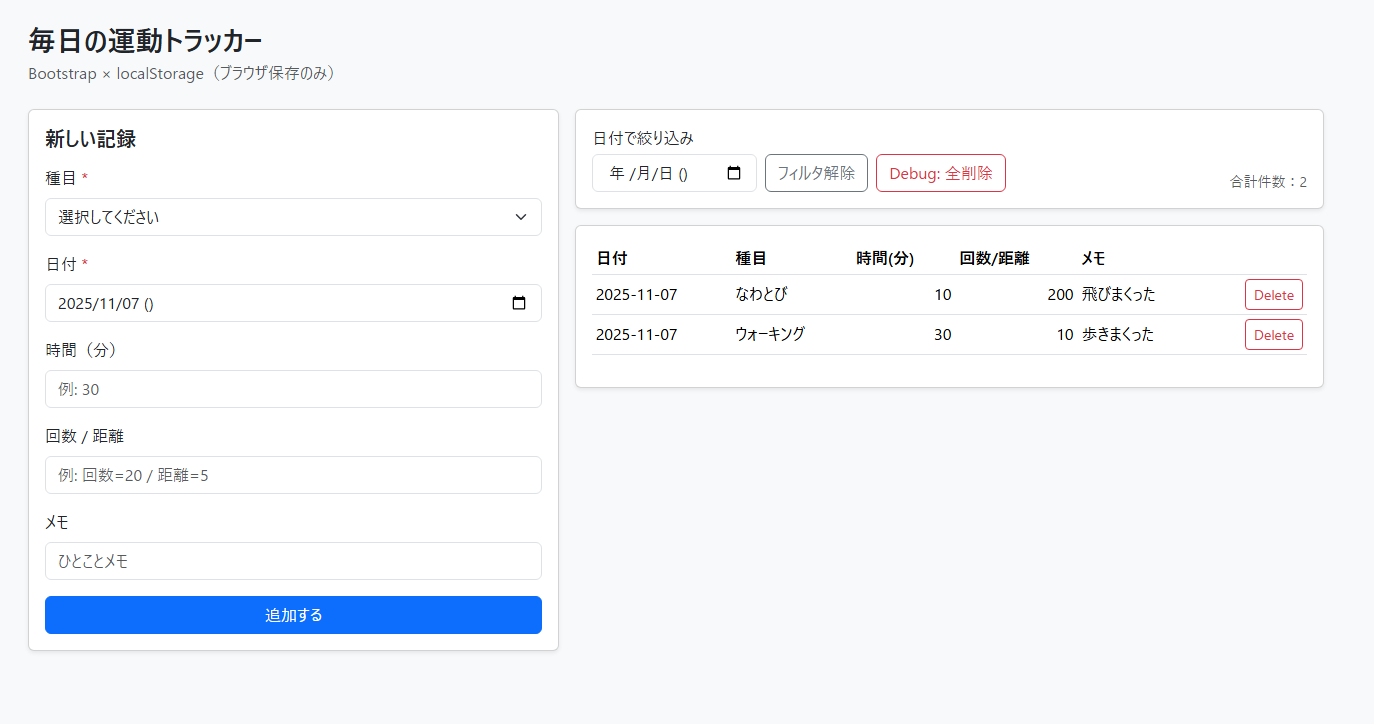
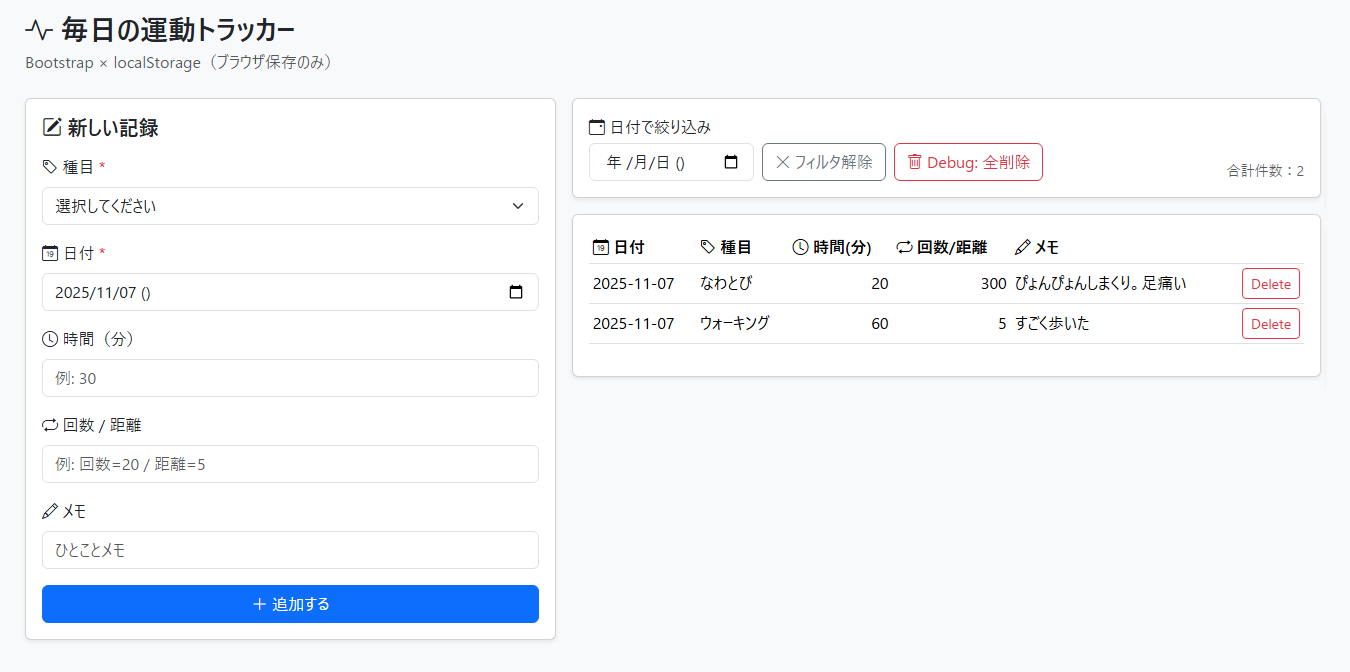
feat: アイコンを追加してUIを改善
- タイトルにアイコンを追加しました。
- 新しい記録セクションにアイコンを追加しました。
- 各ラベルにアイコンを追加しました。
- ボタンにアイコンを追加しました。
- テーブルのヘッダーにアイコンを追加しました。

diff --git a/index.bootstrap.html b/index.bootstrap.html
@@ -6,6 +6,7 @@
     <meta name="viewport" content="width=device-width, initial-scale=1" />
     <title>毎日の運動トラッカー</title>
     <link href="https://cdn.jsdelivr.net/npm/bootstrap@5.3.3/dist/css/bootstrap.min.css" rel="stylesheet">
+    <link rel="stylesheet" href="https://cdn.jsdelivr.net/npm/bootstrap-icons@1.11.3/font/bootstrap-icons.min.css">
     <style>
       body {
         background: #f8f9fa;
@@ -25,17 +26,17 @@
 
   <body>
     <div class="container py-4">
-      <h1 class="h3 mb-1">毎日の運動トラッカー</h1>
+      <h1 class="h3 mb-1"><i class="bi bi-activity"></i> 毎日の運動トラッカー</h1>
       <p class="text-muted mb-4">Bootstrap × localStorage（ブラウザ保存のみ）</p>
 
       <div class="row g-3">
         <div class="col-12 col-lg-5">
           <div class="card shadow-sm">
             <div class="card-body">
-              <h2 class="h5 mb-3">新しい記録</h2>
+              <h2 class="h5 mb-3"><i class="bi bi-pencil-square"></i> 新しい記録</h2>
               <form id="entry-form" class="vstack gap-3">
                 <div>
-                  <label class="form-label required">種目</label>
+                  <label class="form-label required"><i class="bi bi-tag"></i> 種目</label>
                   <select id="type" class="form-select" required>
                     <option value="">選択してください</option>
                     <option>ウォーキング</option>
@@ -46,22 +47,22 @@
                   </select>
                 </div>
                 <div>
-                  <label class="form-label required">日付</label>
+                  <label class="form-label required"><i class="bi bi-calendar-date"></i> 日付</label>
                   <input id="date" type="date" class="form-control" required>
                 </div>
                 <div>
-                  <label class="form-label">時間（分）</label>
+                  <label class="form-label"><i class="bi bi-clock"></i> 時間（分）</label>
                   <input id="minutes" type="number" class="form-control" min="0" placeholder="例: 30">
                 </div>
                 <div>
-                  <label class="form-label">回数 / 距離</label>
+                  <label class="form-label"><i class="bi bi-repeat"></i> 回数 / 距離</label>
                   <input id="value" type="number" class="form-control" min="0" placeholder="例: 回数=20 / 距離=5">
                 </div>
                 <div>
-                  <label class="form-label">メモ</label>
+                  <label class="form-label"><i class="bi bi-pencil"></i> メモ</label>
                   <input id="note" type="text" class="form-control" placeholder="ひとことメモ">
                 </div>
-                <button class="btn btn-primary" type="submit">追加する</button>
+                <button class="btn btn-primary" type="submit"><i class="bi bi-plus-lg"></i> 追加する</button>
               </form>
             </div>
           </div>
@@ -72,11 +73,11 @@
             <div class="card-body">
               <div class="d-flex gap-2 align-items-end flex-wrap">
                 <div>
-                  <label class="form-label mb-1">日付で絞り込み</label>
+                  <label class="form-label mb-1"><i class="bi bi-calendar-event"></i> 日付で絞り込み</label>
                   <input id="filter-date" type="date" class="form-control">
                 </div>
-                <button id="clear-filter" class="btn btn-outline-secondary">フィルタ解除</button>
-                <button id="debug-clear-storage" type="button" class="btn btn-outline-danger">Debug: 全削除</button>
+                <button id="clear-filter" class="btn btn-outline-secondary"><i class="bi bi-x-lg"></i> フィルタ解除</button>
+                <button id="debug-clear-storage" type="button" class="btn btn-outline-danger"><i class="bi bi-trash"></i> Debug: 全削除</button>
                 <div class="ms-auto small text-muted">合計件数：<span id="total-count">0</span></div>
               </div>
             </div>
@@ -88,11 +89,11 @@
                 <table class="table table-sm align-middle">
                   <thead>
                     <tr>
-                      <th>日付</th>
-                      <th>種目</th>
-                      <th>時間(分)</th>
-                      <th>回数/距離</th>
-                      <th>メモ</th>
+                      <th><i class="bi bi-calendar-date"></i> 日付</th>
+                      <th><i class="bi bi-tag"></i> 種目</th>
+                      <th><i class="bi bi-clock"></i> 時間(分)</th>
+                      <th><i class="bi bi-repeat"></i> 回数/距離</th>
+                      <th><i class="bi bi-pencil"></i> メモ</th>
                       <th></th>
                     </tr>
                   </thead>
